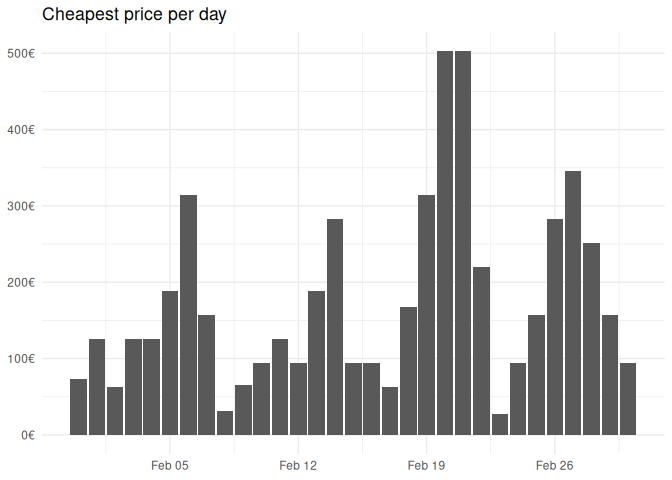
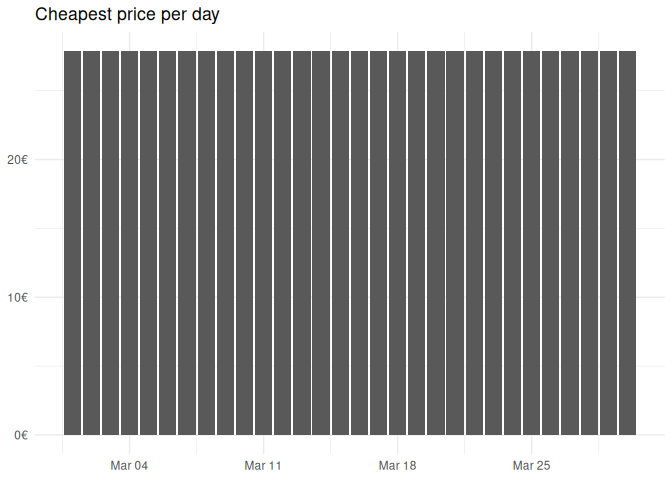
update readme

diff --git a/README.md b/README.md
@@ -14,9 +14,11 @@ company [db](https://www.bahn.de). The main idea is to be able to cast
 your net a bit wider in cases when you are flexible to go on a different
 hour, day, or week.
 
-**Note: I do not have time to actively develop this package. It should
-be seen as a prototype. If you want to take it over as maintainer to
-develop it futher, let me know**
+> [!NOTE]
+> I do not have time to actively develop this package. It
+> should be seen as a prototype. If you want to take it over as
+> maintainer to develop it further, [let me
+> know](mailto:johannesb.gruber@gmail.com).
 
 ## Installation
 
@@ -42,21 +44,21 @@ Wiesbaden and Amsterdam:
 
 ``` r
 library(zugr)
-wi <- search_station("Wiesbaden, Manteuffelstr. 5")
+wi <- search_station("Wiesbaden HBF")
 wi
 #> # A tibble: 10 × 2
-#>    name                                        id                               
-#>    <chr>                                       <chr>                            
-#>  1 Wiesbaden, Manteuffelstraße 5               A=2@O=Wiesbaden, Manteuffelstraß…
-#>  2 Wiesbaden, Scheffelstraße 5                 A=2@O=Wiesbaden, Scheffelstraße …
-#>  3 Wiesbaden - Delkenheim, Eifelstraße 5       A=2@O=Wiesbaden - Delkenheim, Ei…
-#>  4 Wiesbaden - Mainz-Kostheim, Teufelssprung 5 A=2@O=Wiesbaden - Mainz-Kostheim…
-#>  5 Wiesbaden, Reichsapfelstraße 5              A=2@O=Wiesbaden, Reichsapfelstra…
-#>  6 Wiesbaden, Teufelsgraben                    A=2@O=Wiesbaden, Teufelsgraben@X…
-#>  7 Wiesbaden, Scheffelstuben (Gastronomie)     A=4@O=Wiesbaden, Scheffelstuben …
-#>  8 Wiesbaden, Eifelstraße                      A=2@O=Wiesbaden, Eifelstraße@X=8…
-#>  9 Bad Kreuznach, Manteuffelstraße 4           A=2@O=Bad Kreuznach, Manteuffels…
-#> 10 Scheffelstraße, Wiesbaden                   A=1@O=Scheffelstraße, Wiesbaden@…
+#>    name                   id                                                    
+#>    <chr>                  <chr>                                                 
+#>  1 Wiesbaden Hbf          A=1@O=Wiesbaden Hbf@X=8243729@Y=50070788@U=80@L=80002…
+#>  2 Wiesbaden-Mainz-Kast   A=1@O=Wiesbaden-Mainz-Kast@X=8283173@Y=50006578@U=80@…
+#>  3 Wiesbaden-Auringen-M   A=1@O=Wiesbaden-Auringen-M@X=8332092@Y=50113604@U=80@…
+#>  4 Wiesbaden-Biebrich     A=1@O=Wiesbaden-Biebrich@X=8236420@Y=50048827@U=80@L=…
+#>  5 Wiesbaden-Erbenheim    A=1@O=Wiesbaden-Erbenheim@X=8295048@Y=50054410@U=80@L…
+#>  6 Wiesbaden Ost          A=1@O=Wiesbaden Ost@X=8256295@Y=50041411@U=80@L=80064…
+#>  7 Wiesbaden-Igstadt      A=1@O=Wiesbaden-Igstadt@X=8325638@Y=50082582@U=80@L=8…
+#>  8 Wiesbaden-Schierstein  A=1@O=Wiesbaden-Schierstein@X=8194602@Y=50047587@U=80…
+#>  9 Wiesbaden-Chausseehaus A=1@O=Wiesbaden-Chausseehaus@X=8168794@Y=50097765@U=8…
+#> 10 Wiesbaden-Biebr. KD    A=1@O=Wiesbaden-Biebr. KD@X=8236600@Y=50036234@U=80@L…
 ```
 
 The first one is what I need! Now Amsterdam. Here I don’t need as many
@@ -78,23 +80,23 @@ Now I can make a search for next Tuesday Morning (as of writing this):
 next_tuesday <- bahn_search(
   from = wi$id[1],
   to = adam$id[1],
-  start = "2024-01-30T05:00:00",
-  end =  "2024-01-30T19:00:00"
+  start = "2024-02-06T05:00:00",
+  end =  "2024-02-06T19:00:00"
 )
 next_tuesday
 #> # A tibble: 28 × 6
 #>    id         duration             price changes start              
 #>    <chr>      <Duration>           <dbl>   <int> <dttm>             
-#>  1 4934becd_3 21720s (~6.03 hours)  93.4       4 2024-01-30 05:27:00
-#>  2 a2c0662a_3 18600s (~5.17 hours) 113.        2 2024-01-30 06:19:00
-#>  3 bfacedce_3 21960s (~6.1 hours)  103.        4 2024-01-30 06:29:00
-#>  4 6ee9a9d4_3 23760s (~6.6 hours)   67.4       5 2024-01-30 06:29:00
-#>  5 2fc08538_3 21960s (~6.1 hours)  113.        5 2024-01-30 06:59:00
-#>  6 86175a2c_3 21600s (~6 hours)     93.4       3 2024-01-30 07:29:00
-#>  7 a21cc91e_3 18600s (~5.17 hours) 113.        2 2024-01-30 08:19:00
-#>  8 e62269ec_3 21960s (~6.1 hours)  103.        4 2024-01-30 08:29:00
-#>  9 e7e3e886_3 23760s (~6.6 hours)   71.4       6 2024-01-30 08:29:00
-#> 10 5466ce48_3 20760s (~5.77 hours) 103.        5 2024-01-30 08:49:00
+#>  1 12f92732_3 16140s (~4.48 hours)  79.9       1 2024-02-06 05:00:00
+#>  2 b5b084ea_3 20460s (~5.68 hours)  85.9       2 2024-02-06 05:48:00
+#>  3 c2154884_3 17400s (~4.83 hours)  99.9       1 2024-02-06 06:39:00
+#>  4 29be3e05_3 20820s (~5.78 hours)  57.9       3 2024-02-06 06:48:00
+#>  5 8f800bd9_3 22620s (~6.28 hours)  37.9       4 2024-02-06 06:48:00
+#>  6 03e0ebdd_3 20820s (~5.78 hours)  83.9       4 2024-02-06 07:18:00
+#>  7 a5c4f48e_3 20460s (~5.68 hours)  78.9       2 2024-02-06 07:48:00
+#>  8 705c73ef_3 17400s (~4.83 hours)  89.9       1 2024-02-06 08:39:00
+#>  9 73acf6a5_3 20820s (~5.78 hours)  83.9       3 2024-02-06 08:48:00
+#> 10 6a9b423e_3 22620s (~6.28 hours)  47.9       5 2024-02-06 08:48:00
 #> # ℹ 18 more rows
 #> # ℹ 1 more variable: end <dttm>
 ```
@@ -111,11 +113,10 @@ library(tidyverse)
 next_tuesday |> 
   slice_min(price, n = 1) |> 
   select(-id)
-#> # A tibble: 2 × 5
-#>   duration            price changes start               end                
-#>   <Duration>          <dbl>   <int> <dttm>              <dttm>             
-#> 1 23760s (~6.6 hours)  67.4       5 2024-01-30 06:29:00 2024-01-30 13:05:00
-#> 2 23760s (~6.6 hours)  67.4       6 2024-01-30 12:29:00 2024-01-30 19:05:00
+#> # A tibble: 1 × 5
+#>   duration             price changes start               end                
+#>   <Duration>           <dbl>   <int> <dttm>              <dttm>             
+#> 1 22620s (~6.28 hours)  37.9       4 2024-02-06 06:48:00 2024-02-06 13:05:00
 ```
 
 With 5 connections and more than 6 hours, this is a rather terrible
@@ -125,10 +126,10 @@ instead:
 ``` r
 next_tuesday |> 
   # some connections include trains from different companies, the prices for
-  # these are not oncluded
+  # these are not included
   filter(!is.na(price),
          !duplicated(start),
-         start < "2024-01-30 11:00:00") |>
+         start < "2024-02-06 11:00:00") |> # exclude some connections for readability
   ggplot(aes(x = start, y = price, label = changes, fill = duration)) +
   geom_col() +
   geom_text(aes(y = price / 2), colour = "white") +
@@ -144,21 +145,21 @@ next_tuesday |>
 With more data, this gets a little more interesting.
 
 ``` r
-february <- bahn_search(
+march <- bahn_search(
   from = wi$id[1],
   to = adam$id[1],
-  start = "2024-02-01T00:00:00",
-  end =  "2024-03-01T23:59:59"
+  start = "2024-03-01T00:00:00",
+  end =  "2024-04-01T00:00:00"
 )
 ```
 
 Let’s see which days would be especially cheap:
 
 ``` r
-february |> 
+march |> 
   mutate(date = as.Date(start)) |> 
   group_by(date) |> 
-  slice_min(price, n = 1) |> 
+  slice_min(price, n = 1, with_ties = FALSE) |> 
   ggplot(aes(x = date, y = price)) +
   geom_col() +
   labs(x = NULL, y = NULL, 
@@ -169,20 +170,23 @@ february |>
 
 <img src="man/figures/README-unnamed-chunk-8-1.png" width="100%" />
 
-This is all nice, but let’s only take into account connections I would
+So I could get a train on any day in March for the price of 32.90€. This
+is all nice, but let’s only take into account connections I would
 actually consider:
 
 ``` r
-february |> 
-  filter(changes <= 3) |> 
+march |> 
+  filter(changes <= 2,
+         hour(start) > 7) |> 
   mutate(date = as.Date(start),
-         hour(start) > 5) |> 
+         weekday = wday(start, label = TRUE)) |> 
   group_by(date) |> 
-  slice_min(price, n = 1) |> 
-  ggplot(aes(x = date, y = price)) +
+  slice_min(price, n = 1, with_ties = FALSE) |> 
+  ggplot(aes(x = date, y = price, label = weekday)) +
   geom_col() +
+  geom_text(hjust = 0, angle = 90) +
   labs(x = NULL, y = NULL, 
-       title = "Cheapest price per day with <= 3 changes") +
+       title = "Cheapest price per day with <= 2 changes and after 7am") +
   scale_y_continuous(labels = function(x) paste0(x, "€")) +
   theme_minimal()
 ```
@@ -202,7 +206,7 @@ historic <- bahn_search(
 ```
 
 I do not parse the results here to be able to explore the data a bit
-more (parsing only extracts the information that I found intresting on
+more (parsing only extracts the information that I found interesting on
 first glance). However, the results contain a message that the
 connection is in the past and information about price and demand seem
 absent.
